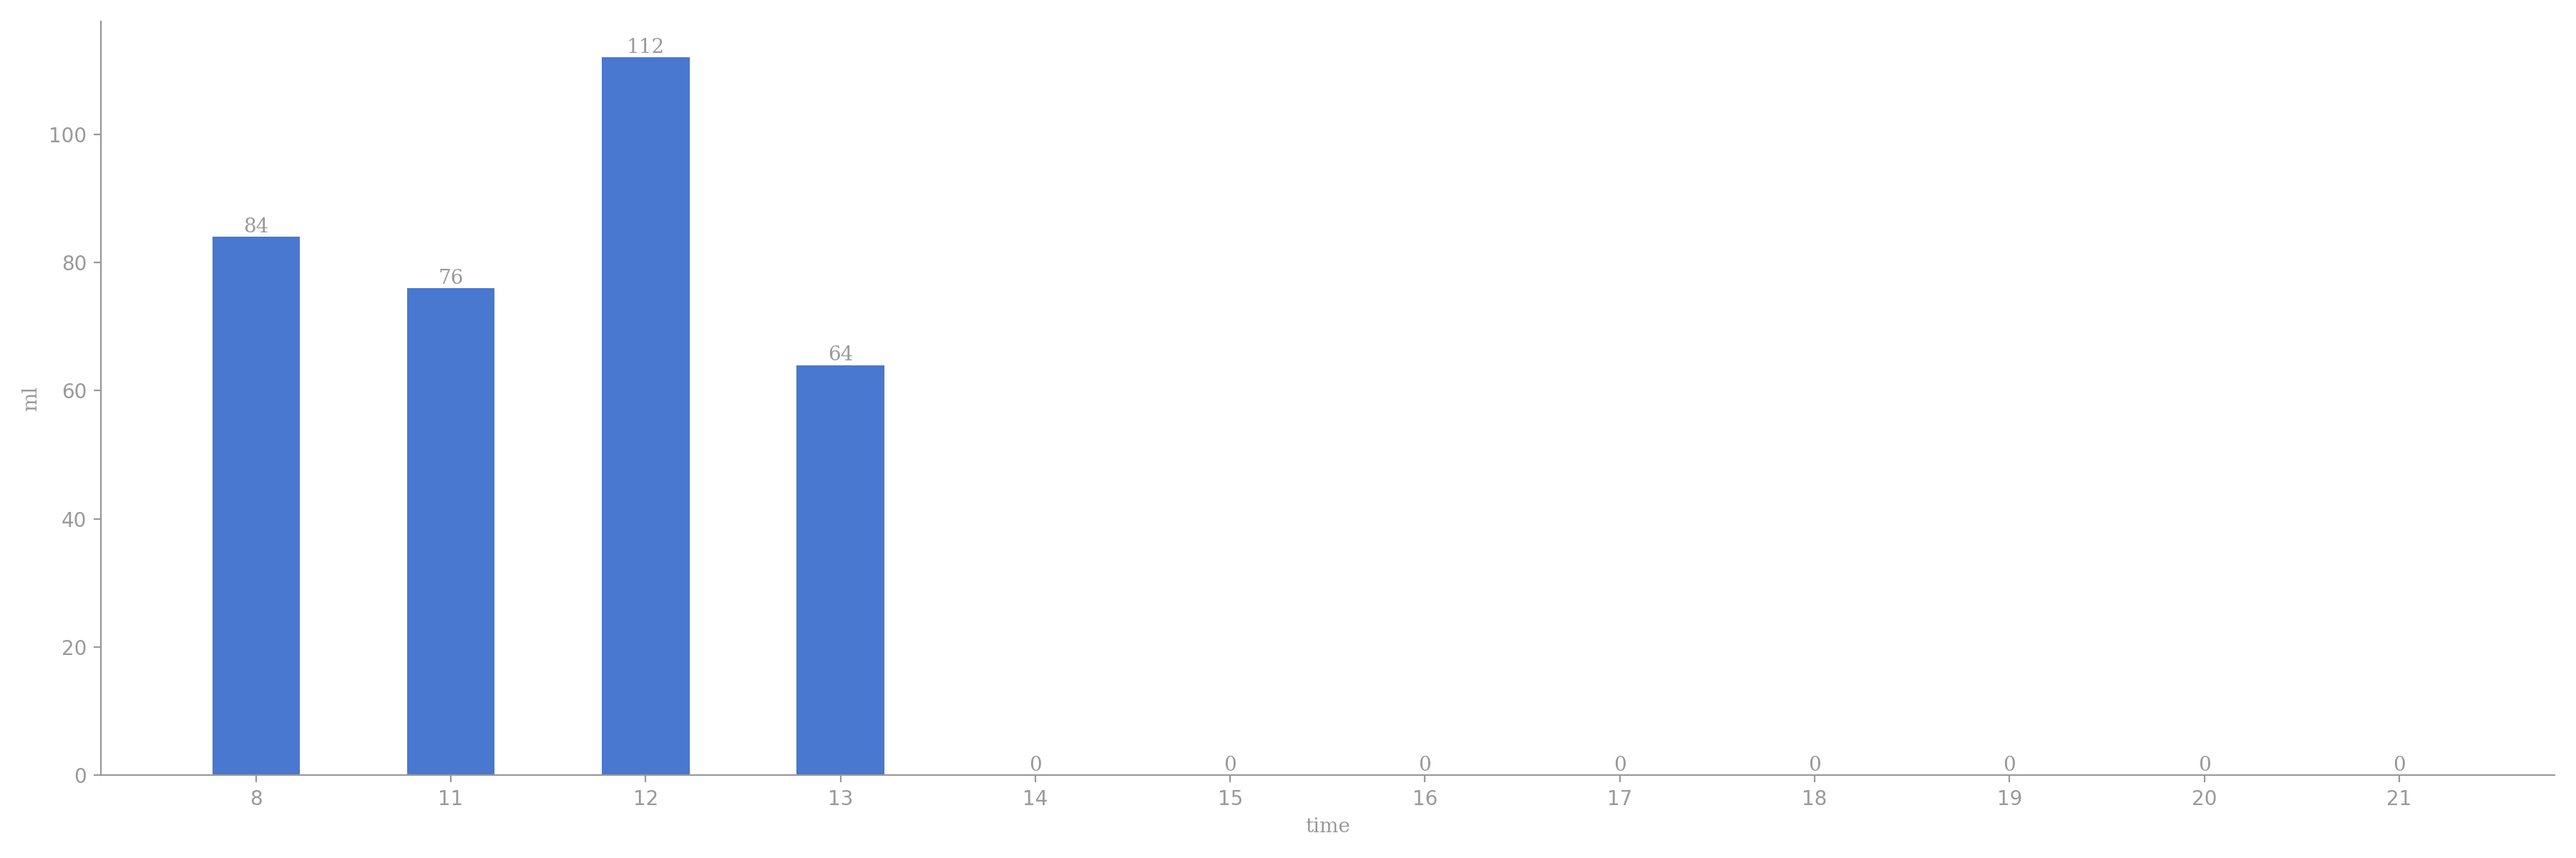
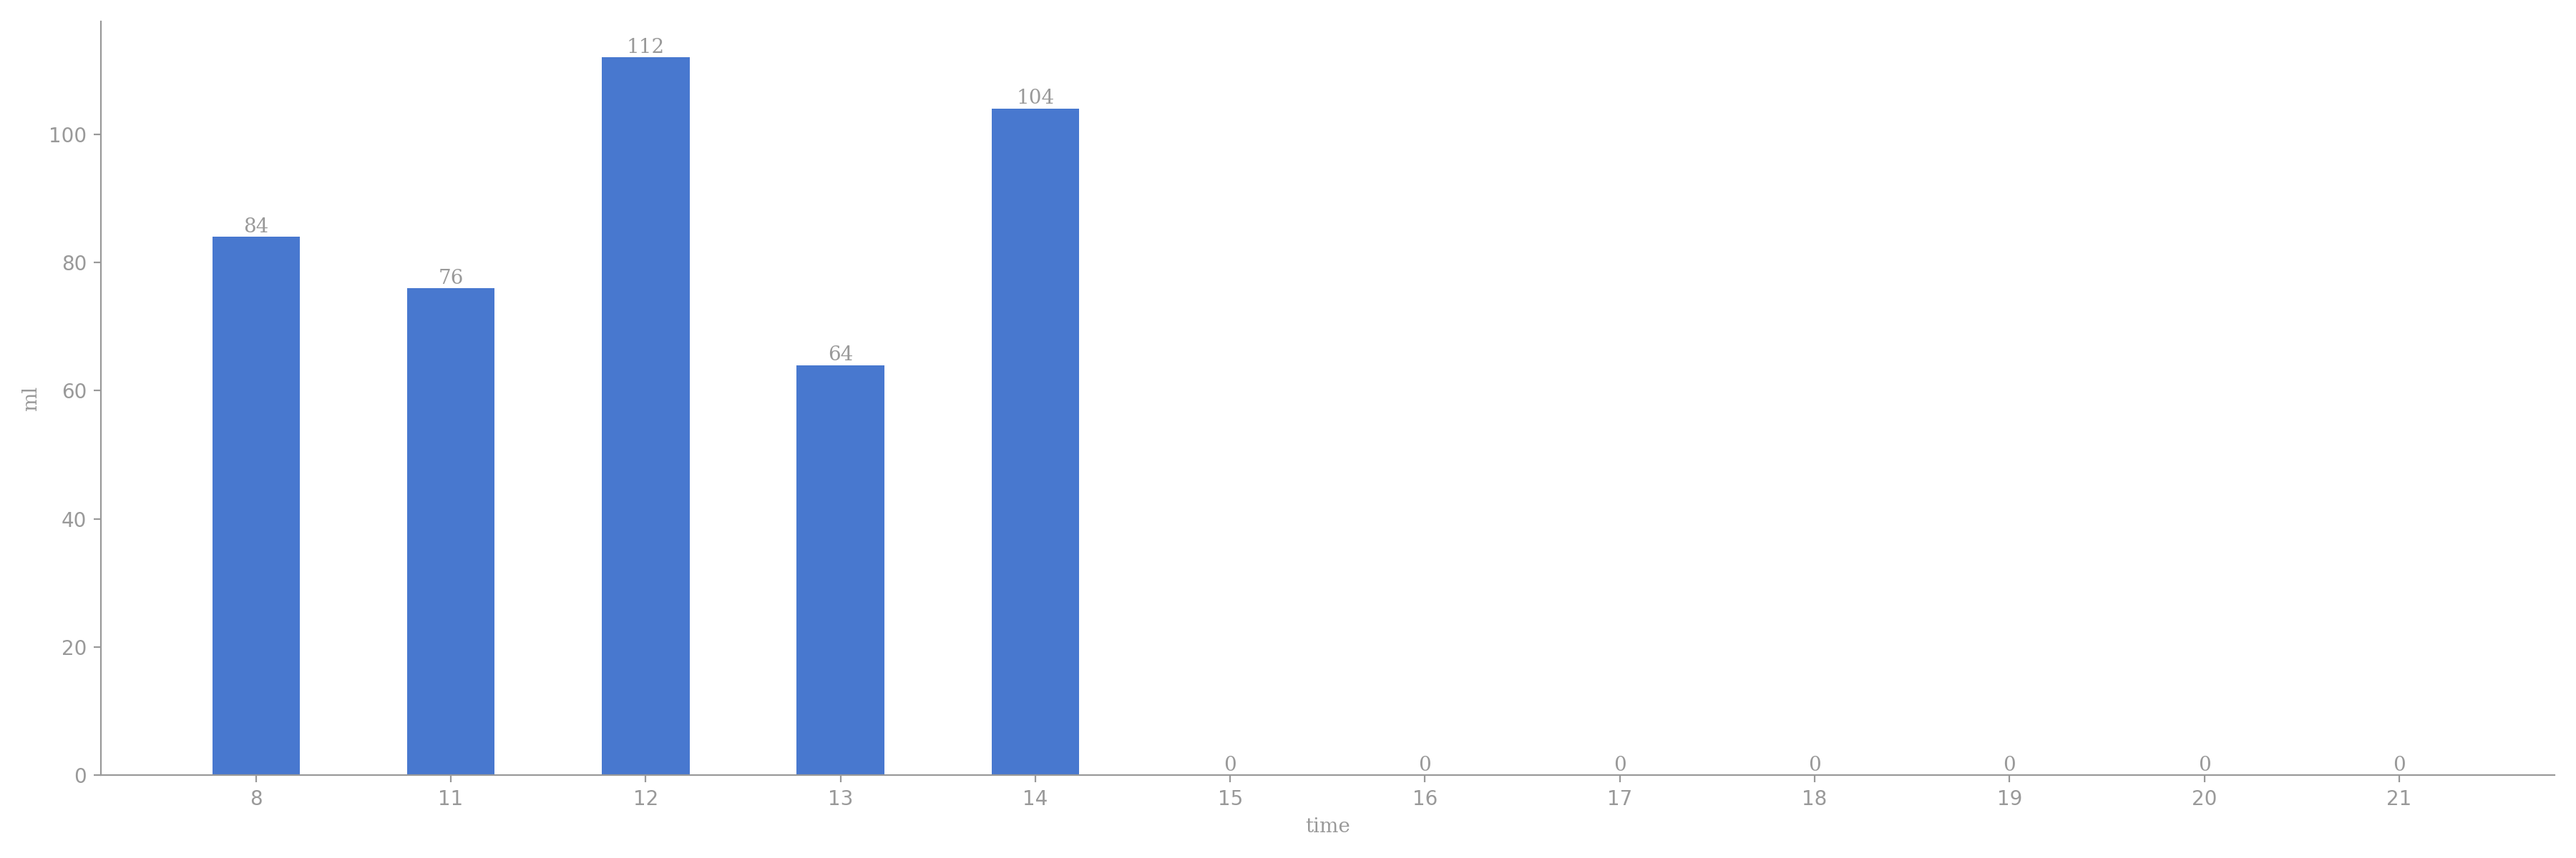
crontab auto git

Changed region(s): [[0.3733, 0.1233, 0.4356, 0.925]]

diff --git a/README.md b/README.md
@@ -5,12 +5,12 @@
 
 | 今日总饮水量 | 每小时平均饮水量 |
 | :----: | :----: |
-| 336 | 84 |
+| 440 | 88 |
 </div>
 
-| 日期 | 08:12:23 | 11:55:35 | 12:44:29 | 13:41:06 |
-| :----: | :----: | :----: | :----: | :----: |
-| 2026-02-24 | 84 | 76 | 112 | 64 |
+| 日期 | 08:12:23 | 11:55:35 | 12:44:29 | 13:41:06 | 14:11:55 |
+| :----: | :----: | :----: | :----: | :----: | :----: |
+| 2026-02-24 | 84 | 76 | 112 | 64 | 104 |
 
 # 近30日饮水数据
 
